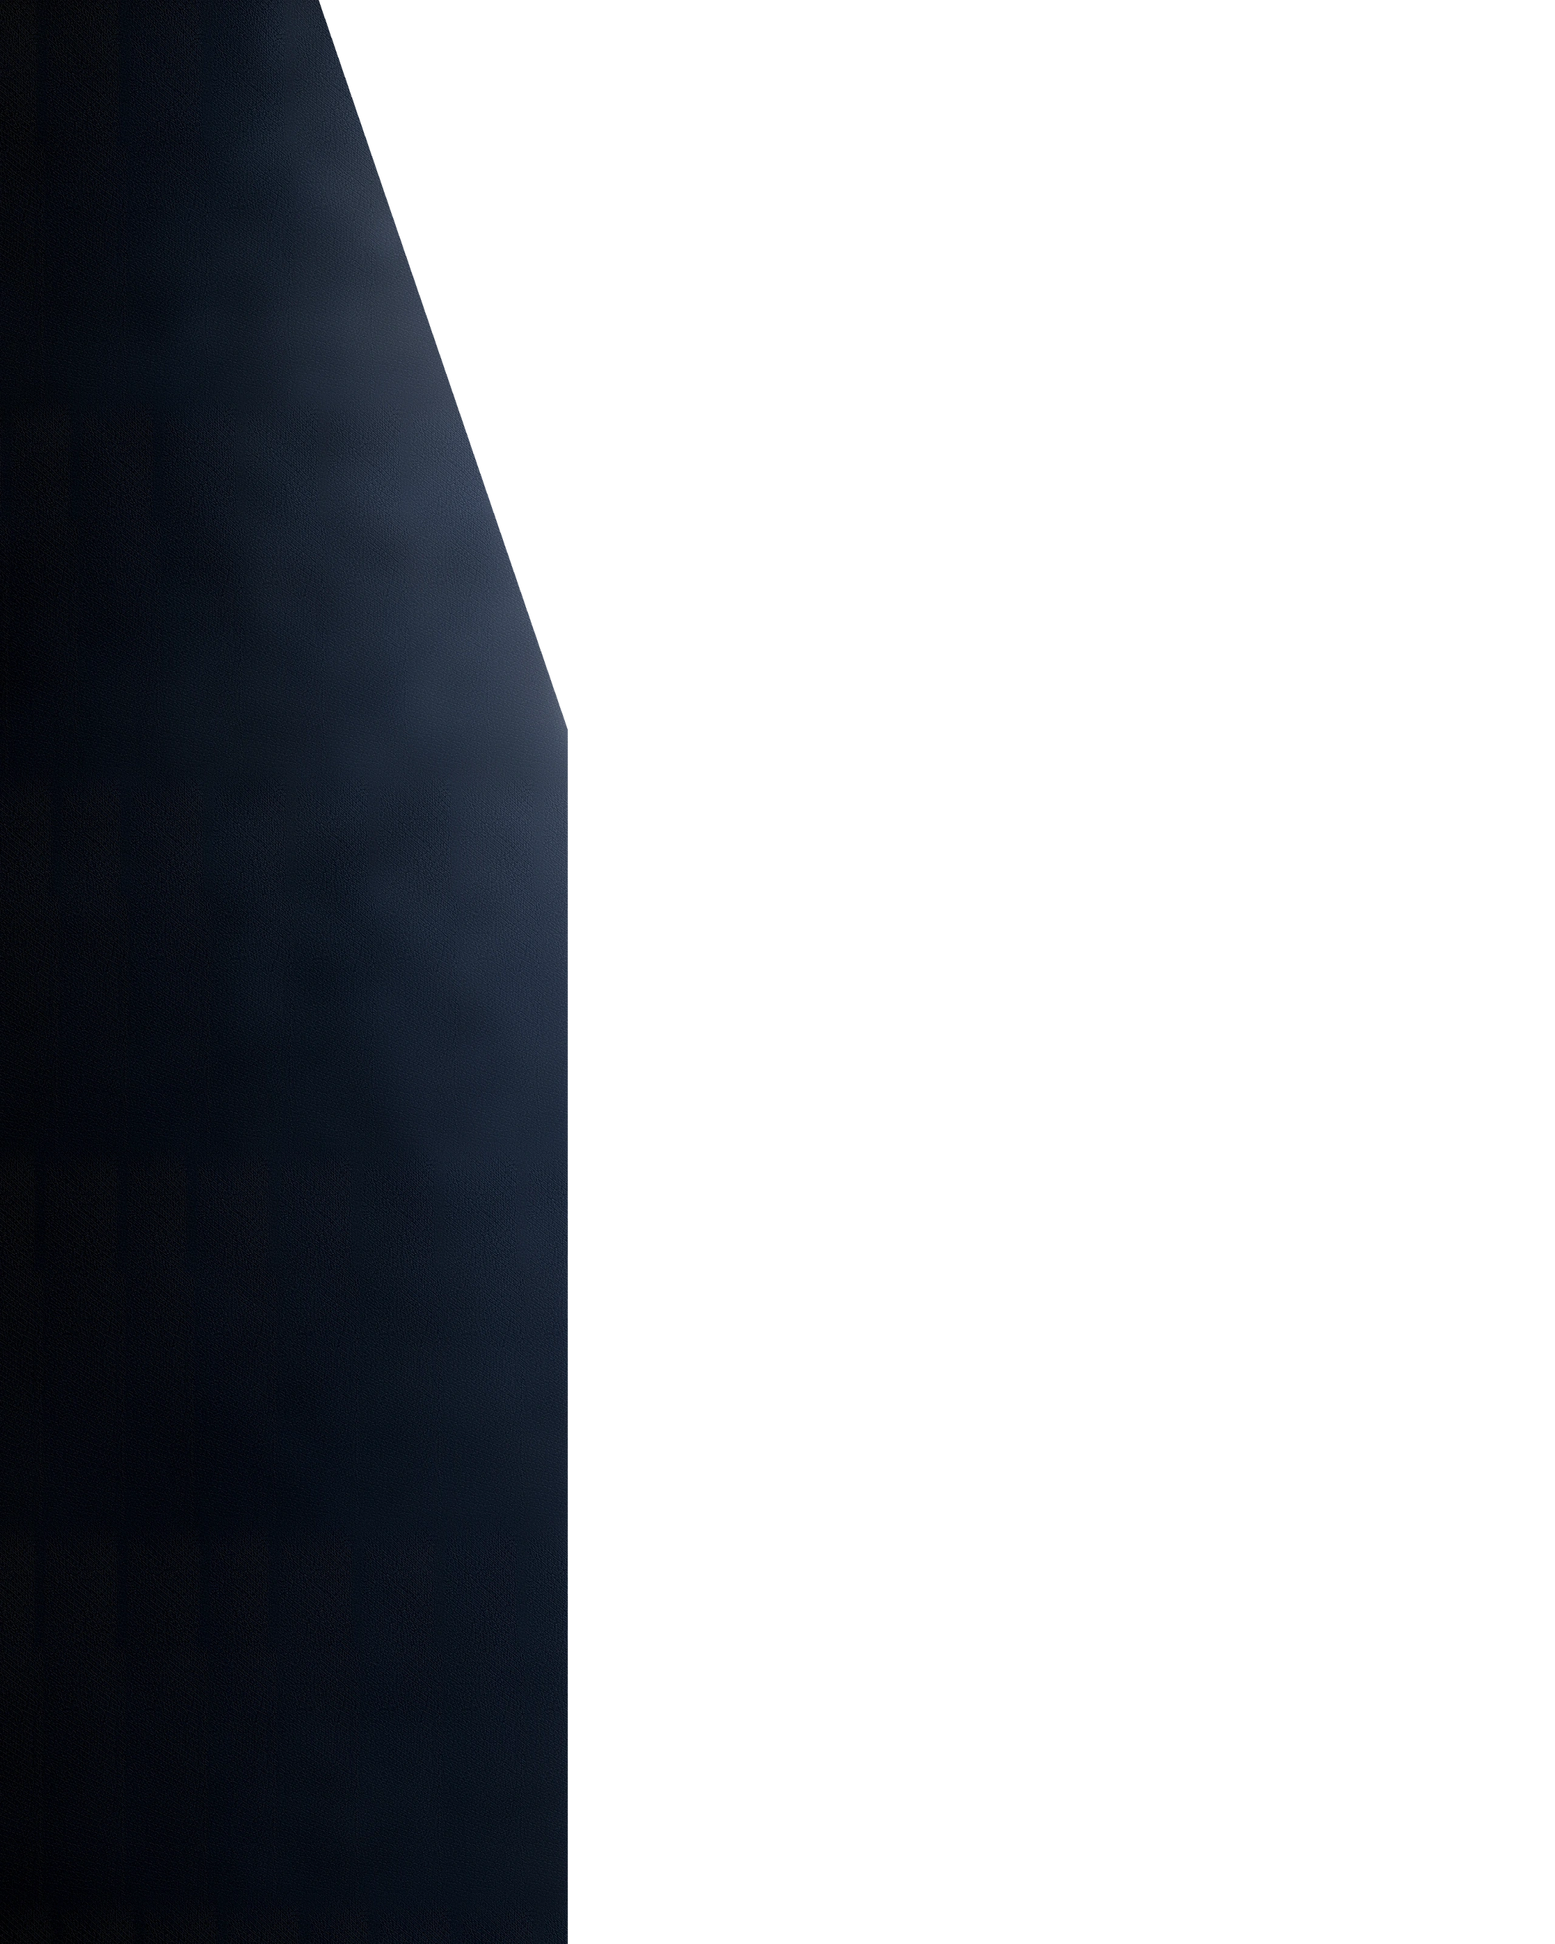
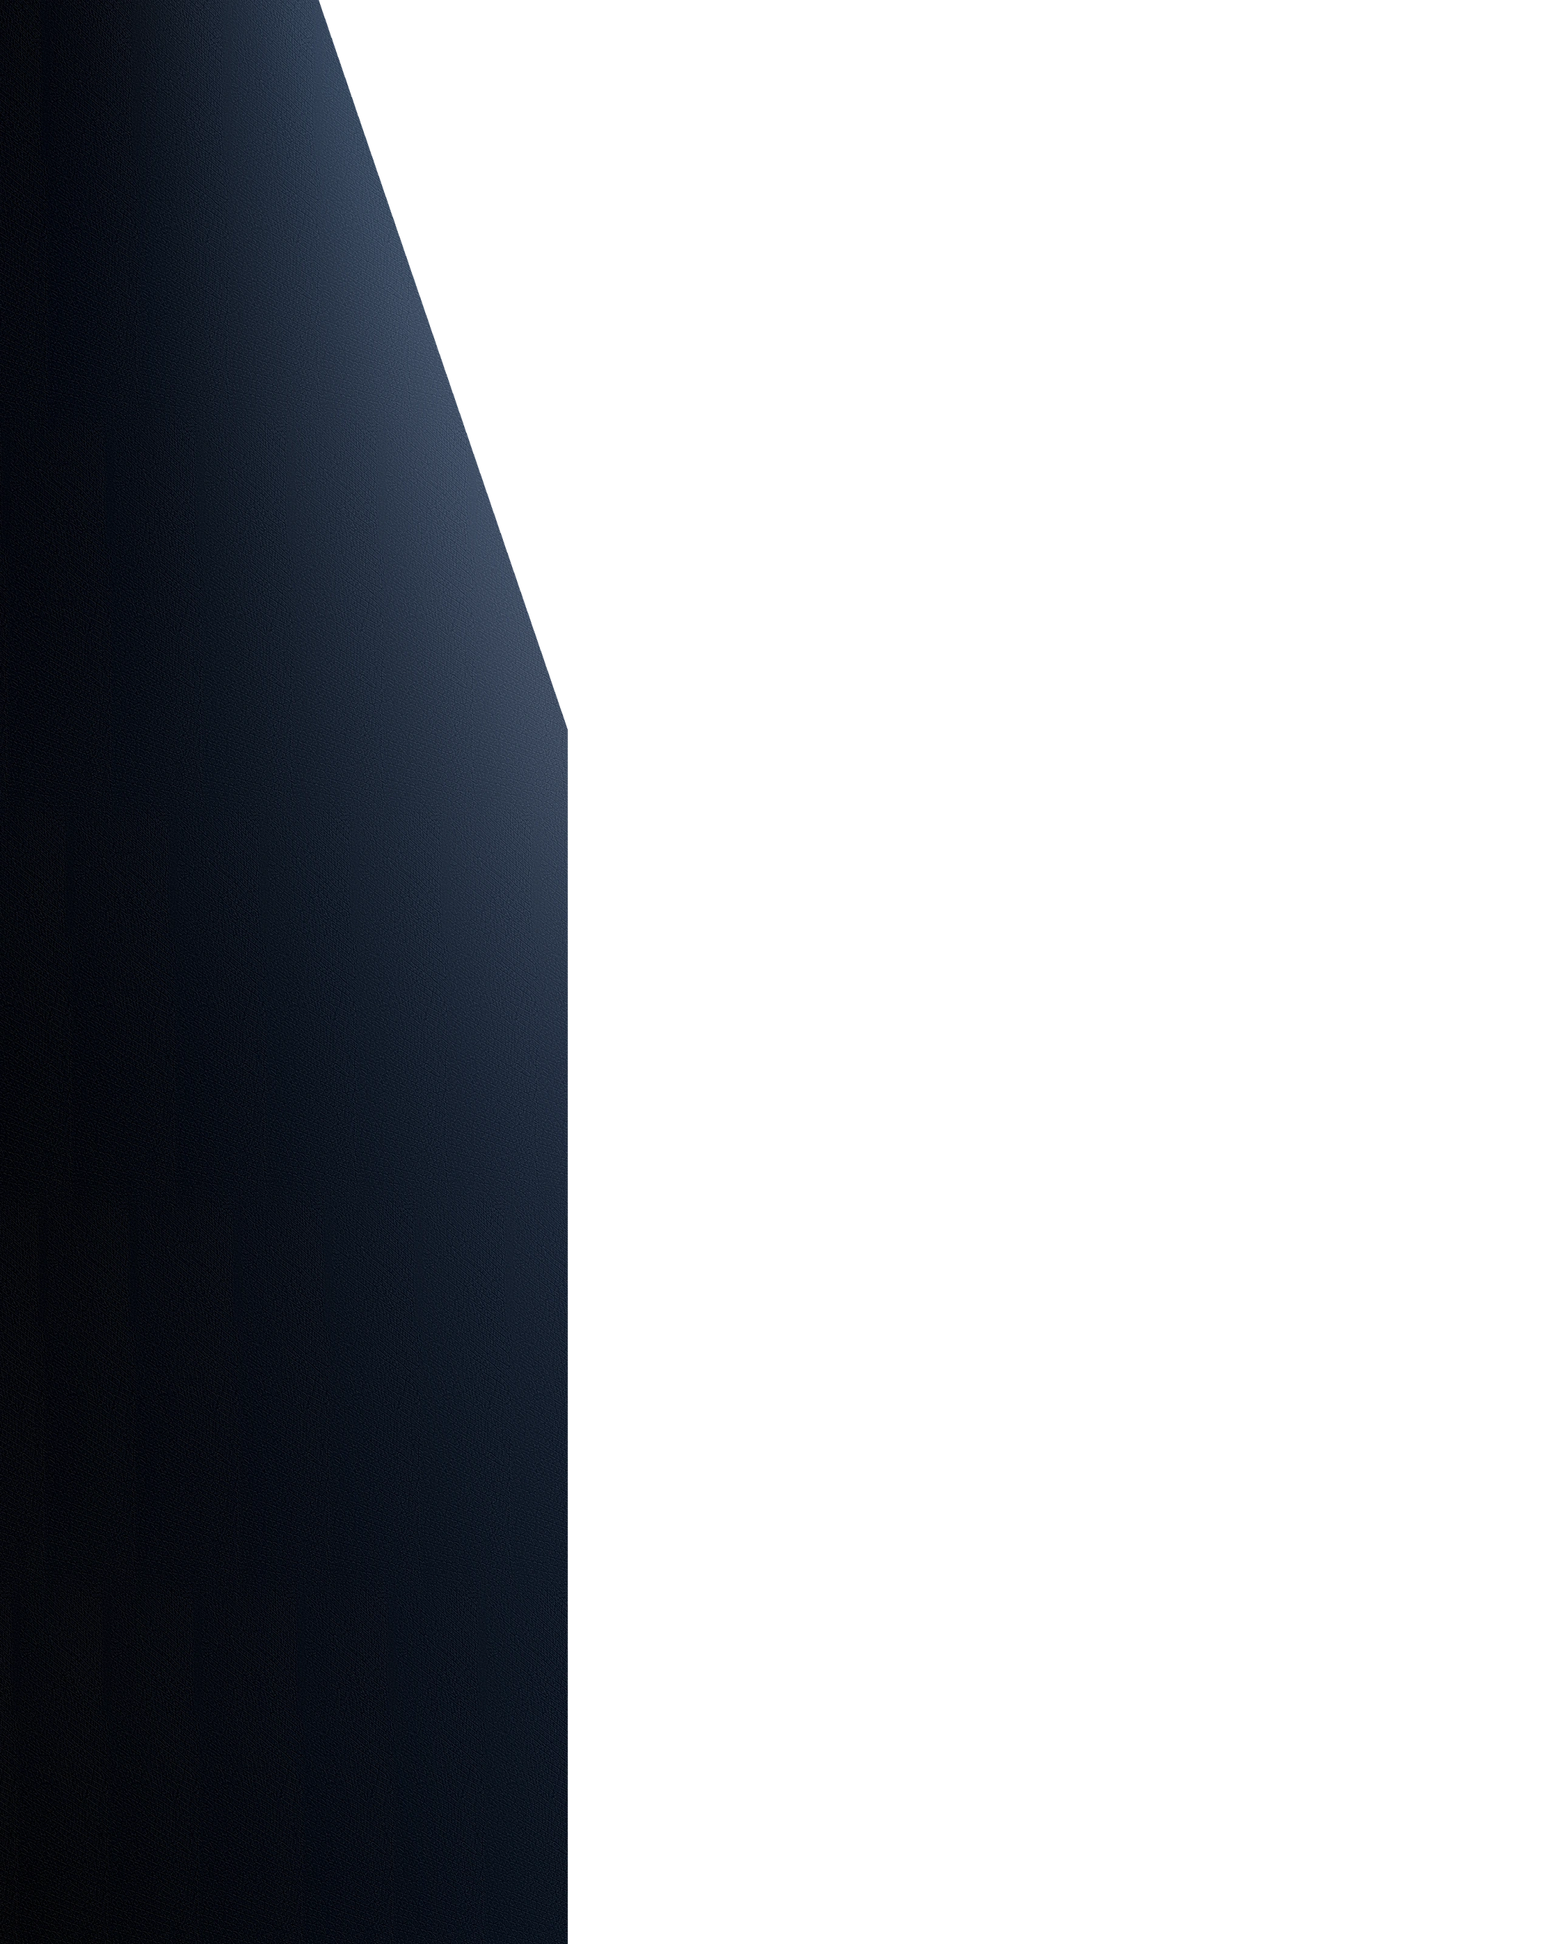
feat: refine dark walls and header contrast

Changed region(s): [[0.0938, 0.0, 0.3125, 0.3125], [0.3125, 0.4062, 0.3438, 0.4688], [0.25, 0.4062, 0.2812, 0.4688]]

diff --git a/index.html b/index.html
@@ -12,7 +12,7 @@
     <link rel="stylesheet" href="fonts/fonts.css">
     <link rel="stylesheet" href="vendor/swiper/swiper-bundle.min.css">
     <link rel="stylesheet" href="css/main.css?v=39">
-    <link rel="stylesheet" href="css/style.css?v=252">
+    <link rel="stylesheet" href="css/style.css?v=254">
 </head>
 
 <body class="is-loading">
@@ -32,7 +32,7 @@
         <div class="site-header__inner">
             <a class="site-header__logo" href="#home" aria-label="Better Trade 2026 Home">
                 <img class="site-header__logo-image" src="images/better-trade-logo-black.png" alt="Better Trade">
-                <img class="site-header__logo-image site-header__logo-image--on-dark" src="images/better-trade-logo-black.png" alt="" aria-hidden="true">
+                <img class="site-header__logo-image site-header__logo-image--on-dark" src="images/better-trade-logo-white.png" alt="" aria-hidden="true">
             </a>
 
             <nav class="site-header__nav" aria-label="เมนูหลัก">
@@ -149,13 +149,13 @@
                 <img id="ship" src="images/ship.webp" alt="Playbook ship" fetchpriority="high" decoding="sync">
                 <div id="walls" aria-hidden="true">
                     <div id="wall-left-intro" class="wall-intro-panel">
-                        <img id="wall-left" class="wall-panel" src="images/wall-left-1280.webp?v=dark-wall-18"
-                            srcset="images/wall-left-1280.webp?v=dark-wall-18 1280w, images/wall-left-1920.webp?v=dark-wall-18 1920w, images/wall-left-2560.webp?v=dark-wall-18 2560w, images/wall-left.webp?v=dark-wall-18 3240w"
+                        <img id="wall-left" class="wall-panel" src="images/wall-left-1280.webp?v=dark-wall-21"
+                            srcset="images/wall-left-1280.webp?v=dark-wall-21 1280w, images/wall-left-1920.webp?v=dark-wall-21 1920w, images/wall-left-2560.webp?v=dark-wall-21 2560w, images/wall-left.webp?v=dark-wall-21 3240w"
                             sizes="100vw" alt="">
                     </div>
                     <div id="wall-right-intro" class="wall-intro-panel">
-                        <img id="wall-right" class="wall-panel" src="images/wall-right-1280.webp?v=dark-wall-18"
-                            srcset="images/wall-right-1280.webp?v=dark-wall-18 1280w, images/wall-right-1920.webp?v=dark-wall-18 1920w, images/wall-right-2560.webp?v=dark-wall-18 2560w, images/wall-right.webp?v=dark-wall-18 3240w"
+                        <img id="wall-right" class="wall-panel" src="images/wall-right-1280.webp?v=dark-wall-21"
+                            srcset="images/wall-right-1280.webp?v=dark-wall-21 1280w, images/wall-right-1920.webp?v=dark-wall-21 1920w, images/wall-right-2560.webp?v=dark-wall-21 2560w, images/wall-right.webp?v=dark-wall-21 3240w"
                             sizes="100vw" alt="">
                     </div>
                 </div>
@@ -1442,7 +1442,7 @@
     <script src="js/back-to-top.js?v=2"></script>
     <script src="js/journey-indicator.js?v=10"></script>
     <script src="js/mobile-cta-bar.js?v=3"></script>
-    <script src="js/hero-v2-header.js?v=11"></script>
+    <script src="js/hero-v2-header.js?v=12"></script>
     <script src="js/in-page-navigation.js?v=1"></script>
     <script src="js/past-event-swiper.js?v=6"></script>
 

diff --git a/js/hero-v2-header.js b/js/hero-v2-header.js
@@ -176,13 +176,17 @@
                 if (logo) {
                     const logoRect = logo.getBoundingClientRect();
                     if (logoRect.height > 0) {
-                        const ranges = darkRects
-                            .filter(rect => rect.right > logoRect.left && rect.left < logoRect.right)
-                            .map(rect => ({
-                                start: Math.max(0, Math.min(1, (rect.top - logoRect.top) / logoRect.height)),
-                                end: Math.max(0, Math.min(1, (rect.bottom - logoRect.top) / logoRect.height)),
-                            }))
-                            .filter(range => range.end > range.start);
+                        const logoOnHeroSky = siteHeader.classList.contains('site-header--hero-sky')
+                            && !siteHeader.classList.contains('is-sticky');
+                        const ranges = logoOnHeroSky
+                            ? [{ start: 0, end: 1 }]
+                            : darkRects
+                                .filter(rect => rect.right > logoRect.left && rect.left < logoRect.right)
+                                .map(rect => ({
+                                    start: Math.max(0, Math.min(1, (rect.top - logoRect.top) / logoRect.height)),
+                                    end: Math.max(0, Math.min(1, (rect.bottom - logoRect.top) / logoRect.height)),
+                                }))
+                                .filter(range => range.end > range.start);
 
                         const darkStart = ranges.length
                             ? Math.min(...ranges.map(range => range.start))
@@ -277,6 +281,8 @@
             };
         }
 
+        updateSiteHeader();
+
         let disconnectHeaderThemeObserver = setupHeaderThemeObserver();
         const disconnectHeaderTextClipping = setupHeaderTextClipping();
         const disconnectDesktopNavActiveState = setupDesktopNavActiveState();
@@ -327,5 +333,4 @@
         });
         window.addEventListener('beforeunload', disconnectDesktopNavActiveState, { once: true });
         window.addEventListener('beforeunload', disconnectHeaderTextClipping, { once: true });
-        updateSiteHeader();
     

diff --git a/css/style.css b/css/style.css
@@ -417,6 +417,9 @@ body.menu-closing .site-header {
 }
 
 .site-header__logo {
+    --bt-header-logo-dark-start: 0%;
+    --bt-header-logo-dark-end: 0%;
+
     width: 120px;
     position: relative;
     display: flex;
@@ -434,7 +437,6 @@ body.menu-closing .site-header {
 .site-header__logo-image--on-dark {
     position: absolute;
     inset: 0;
-    filter: invert(1);
     clip-path: inset(var(--bt-header-logo-dark-start, 0%) 0 calc(100% - var(--bt-header-logo-dark-end, 0%)) 0);
     will-change: clip-path;
 }
@@ -960,6 +962,10 @@ body.menu-open .site-header__backdrop {
         display: grid;
     }
 
+    .site-header--hero-sky:not(.is-sticky) .site-header__toggle {
+        color: var(--bt-menu-toggle-ink-on-dark);
+    }
+
     .site-header__backdrop {
         display: block;
         z-index: 195;
@@ -1002,12 +1008,6 @@ body.menu-open .site-header__backdrop {
 }
 
 @media (max-width:575px) {
-    .site-header--hero-sky:not(.is-sticky) {
-        background: rgba(255, 255, 255, 0.21);
-        -webkit-backdrop-filter: blur(8px);
-        backdrop-filter: blur(8px);
-    }
-
     .site-header__logo {
         width: 120px;
         height: var(--space-10);

diff --git a/tools/build-dark-walls.py b/tools/build-dark-walls.py
@@ -46,7 +46,7 @@ def soft_noise(
 
 
 def reduced_brick_detail(source: Image.Image, side: str) -> np.ndarray:
-    """Extract fine masonry relief from the reference without its lighting."""
+    """Extract continuous masonry relief while preserving each wall's angle."""
     crop_box = (
         (20, 220, 230, 1320)
         if side == "left"
@@ -54,22 +54,87 @@ def reduced_brick_detail(source: Image.Image, side: str) -> np.ndarray:
     )
     crop = ImageOps.grayscale(source.convert("RGB").crop(crop_box))
     crop = crop.resize(
-        (max(1, round(crop.width * 0.82)), max(1, round(crop.height * 0.82))),
+        (max(1, round(crop.width * 0.90)), max(1, round(crop.height * 0.90))),
         Image.Resampling.LANCZOS,
     )
     blurred = crop.filter(ImageFilter.GaussianBlur(radius=4.0))
     detail = np.asarray(crop, dtype=np.float32) - np.asarray(blurred, dtype=np.float32)
     detail = np.clip(detail * 1.45, -24.0, 24.0)
 
-    # Offset each boundary to the middle, then cover it with another intact
-    # region from the same draft texture. The outer edges remain continuous.
-    detail = heal_texture_seam(detail, axis=1, radius=18)
+    # Remove residual bands from the reference lighting before repeating the
+    # relief. They otherwise become increasingly obvious on the lower wall.
+    row_bias = detail.mean(axis=1, keepdims=True)
+    column_bias = detail.mean(axis=0, keepdims=True)
+    detail -= row_bias - row_bias.mean(dtype=np.float64)
+    detail -= column_bias - column_bias.mean(dtype=np.float64)
+
+    # The source already carries the correct opposing perspective: roughly 45
+    # degrees on the left and 135 degrees on the right. Keep the horizontal edge
+    # periodic, then align each following vertical repeat to that diagonal flow.
+    detail = heal_texture_seam(detail, axis=1, radius=14)
     detail -= detail.mean(dtype=np.float64)
     detail = np.clip(detail, -24.0, 24.0)
 
     repeats_x = (MASTER_WIDTH + detail.shape[1] - 1) // detail.shape[1]
     strip = np.tile(detail, (1, repeats_x))[:, :MASTER_WIDTH]
-    return stack_texture_strips(strip, side)
+    stacked = stack_aligned_texture(strip, detail)
+
+    # The source wall changes scale from top to bottom. Equalize the local
+    # relief energy after stacking so that transition does not repeat as broad
+    # horizontal bands in the lower half of the generated panel.
+    row_rms = np.sqrt(np.mean(stacked**2, axis=1, keepdims=True) + 1e-6)
+    target_rms = float(np.median(row_rms))
+    gain = np.clip(target_rms / row_rms, 0.78, 1.45)
+    return np.clip(stacked * gain, -24.0, 24.0)
+
+
+def stack_aligned_texture(strip: np.ndarray, tile: np.ndarray) -> np.ndarray:
+    """Repeat relief vertically without visible bands or broken brick angles."""
+    # Match a generous section of the relief, so the blend preserves the brick
+    # pattern instead of creating a thin low-contrast stripe at each repeat.
+    overlap = min(180, tile.shape[0] // 5)
+    search_width = tile.shape[1]
+    lower_edge = tile[-overlap:]
+
+    best_shift = 0
+    best_error = float("inf")
+    for shift in range(search_width):
+        upper_edge = np.roll(tile[:overlap], shift, axis=1)
+        error = float(np.mean((lower_edge - upper_edge) ** 2))
+        if error < best_error:
+            best_error = error
+            best_shift = shift
+
+    result = np.zeros((MASTER_HEIGHT, MASTER_WIDTH), dtype=np.float32)
+    weights = np.zeros((MASTER_HEIGHT, 1), dtype=np.float32)
+    step = strip.shape[0] - overlap
+    cursor = 0
+    index = 0
+
+    while cursor < MASTER_HEIGHT:
+        block = np.roll(strip, index * best_shift, axis=1)
+        block_height = min(block.shape[0], MASTER_HEIGHT - cursor)
+        window = np.ones((block_height, 1), dtype=np.float32)
+
+        if cursor > 0:
+            fade_height = min(overlap, block_height)
+            phase = np.linspace(0.0, 1.0, fade_height, dtype=np.float32)
+            window[:fade_height, 0] = 0.5 - 0.5 * np.cos(phase * np.pi)
+
+        if cursor + block_height < MASTER_HEIGHT:
+            fade_height = min(overlap, block_height)
+            phase = np.linspace(1.0, 0.0, fade_height, dtype=np.float32)
+            window[-fade_height:, 0] = np.minimum(
+                window[-fade_height:, 0],
+                0.5 - 0.5 * np.cos(phase * np.pi),
+            )
+
+        result[cursor : cursor + block_height] += block[:block_height] * window
+        weights[cursor : cursor + block_height] += window
+        cursor += step
+        index += 1
+
+    return result / np.maximum(weights, 1e-6)
 
 
 def heal_texture_seam(detail: np.ndarray, axis: int, radius: int) -> np.ndarray:
@@ -90,45 +155,13 @@ def heal_texture_seam(detail: np.ndarray, axis: int, radius: int) -> np.ndarray:
     return shifted * (1.0 - alpha) + donor * alpha
 
 
-def stack_texture_strips(strip: np.ndarray, side: str) -> np.ndarray:
-    """Stagger repeated source strips and crossfade their horizontal seams."""
-    result = np.zeros((MASTER_HEIGHT, MASTER_WIDTH), dtype=np.float32)
-    overlap = min(120, strip.shape[0] // 4)
-    step = strip.shape[0] - overlap
-    cursor = 0
-    index = 0
-    direction = 1 if side == "left" else -1
-
-    while cursor < MASTER_HEIGHT:
-        shift = direction * ((index * 53 + index * index * 17) % strip.shape[1])
-        block = np.roll(strip, shift, axis=1)
-        block_height = min(block.shape[0], MASTER_HEIGHT - cursor)
-        if cursor == 0:
-            result[:block_height] = block[:block_height]
-        else:
-            blend_height = min(overlap, block_height)
-            alpha = np.linspace(0.0, 1.0, blend_height, dtype=np.float32)[:, None]
-            alpha = 0.5 - 0.5 * np.cos(alpha * np.pi)
-            result[cursor : cursor + blend_height] = (
-                result[cursor : cursor + blend_height] * (1.0 - alpha)
-                + block[:blend_height] * alpha
-            )
-            result[cursor + blend_height : cursor + block_height] = block[
-                blend_height:block_height
-            ]
-        cursor += step
-        index += 1
-
-    return result
-
-
 def reference_lighting(
     source: Image.Image,
     side: str,
     wall_depth: np.ndarray,
 ) -> np.ndarray:
     """Map the old wall's blue tone and directional light onto target geometry."""
-    source = source.convert("RGB").filter(ImageFilter.GaussianBlur(radius=10.0))
+    source = source.convert("RGB").filter(ImageFilter.GaussianBlur(radius=220.0))
     source_pixels = np.asarray(source, dtype=np.float32)
     source_height, source_width = source_pixels.shape[:2]
 
@@ -154,13 +187,44 @@ def reference_lighting(
     return source_pixels[source_y, source_x]
 
 
+def sky_reflection(side: str, wall_depth: np.ndarray) -> np.ndarray:
+    """Add the cool directional light cast by the open sky above the walls."""
+    y = np.linspace(0.0, 1.0, MASTER_HEIGHT, dtype=np.float32)[:, None]
+    top_falloff = np.exp(-((y / 0.34) ** 1.45))
+
+    # The inner face sees the sky directly while the outer edge remains almost
+    # black. Smoothstep keeps that transition broad enough to read as light,
+    # rather than as another stripe in the masonry.
+    inner = np.clip((wall_depth - 0.08) / 0.92, 0.0, 1.0)
+    inner = inner * inner * (3.0 - 2.0 * inner)
+    wash = top_falloff * (0.12 * np.sqrt(inner) + 0.88 * inner**1.55)
+    rim = top_falloff * np.clip((wall_depth - 0.72) / 0.28, 0.0, 1.0) ** 1.7
+
+    if side == "left":
+        wash_color = np.array((22.0, 29.0, 38.0), dtype=np.float32)
+        rim_color = np.array((10.0, 12.0, 13.0), dtype=np.float32)
+    else:
+        wash_color = np.array((17.0, 25.0, 35.0), dtype=np.float32)
+        rim_color = np.array((7.0, 10.0, 13.0), dtype=np.float32)
+
+    reflection = wash[:, :, None] * wash_color
+    reflection += rim[:, :, None] * rim_color
+
+    # Preserve the near-black exterior corners visible in the key visual.
+    outer_shadow = top_falloff * (1.0 - inner) ** 2.4
+    reflection -= outer_shadow[:, :, None] * np.array(
+        (6.0, 5.0, 3.0), dtype=np.float32
+    )
+    return reflection
+
+
 def build_wall(
     side: str,
     texture_source: Image.Image,
     lighting_source: Image.Image,
 ) -> Image.Image:
     rng = np.random.default_rng(20261031 + (0 if side == "left" else 1))
-    broad_variation = soft_noise(rng, (54, 68), 2.4) * 7.0
+    broad_variation = soft_noise(rng, (36, 46), 3.0) * 4.5
 
     x = np.linspace(0.0, 1.0, MASTER_WIDTH, dtype=np.float32)[None, :]
     y = np.linspace(0.0, 1.0, MASTER_HEIGHT, dtype=np.float32)[:, None]
@@ -173,7 +237,11 @@ def build_wall(
 
     lighting = reference_lighting(lighting_source, side, wall_depth)
     tone = broad_variation + reduced_brick_detail(texture_source, side)
-    pixels = np.clip(lighting + tone[:, :, None], 0, 255).astype(np.uint8)
+    pixels = np.clip(
+        lighting + sky_reflection(side, wall_depth) + tone[:, :, None],
+        0,
+        255,
+    ).astype(np.uint8)
 
     alpha = np.zeros((MASTER_HEIGHT, MASTER_WIDTH), dtype=np.uint8)
     columns = np.arange(MASTER_WIDTH)[None, :]
